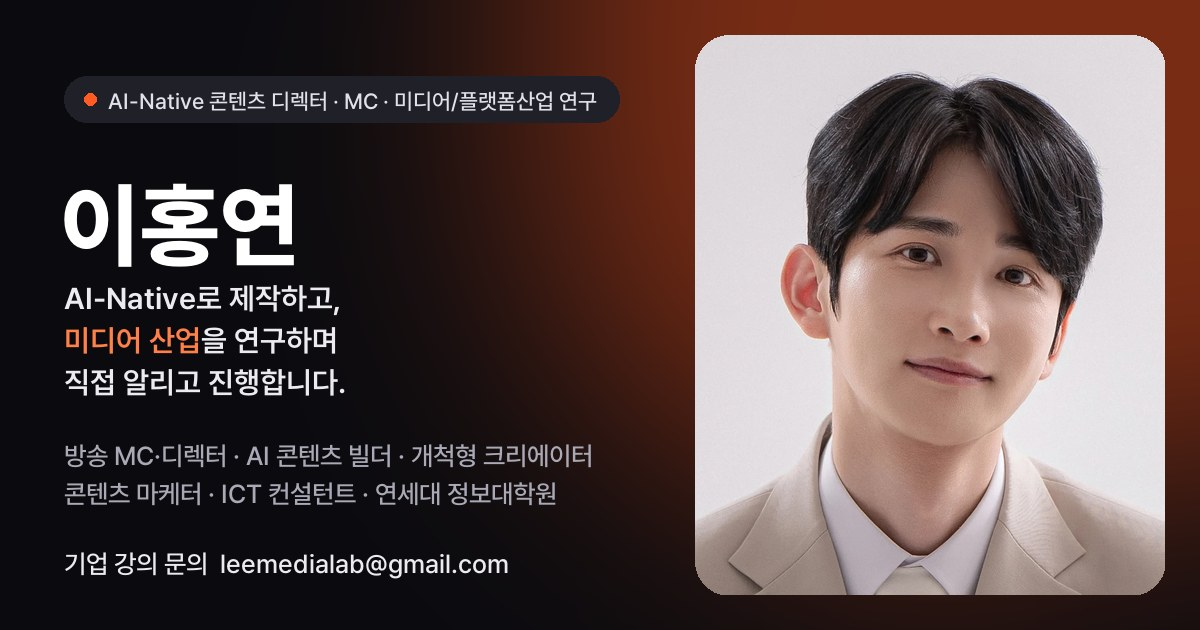
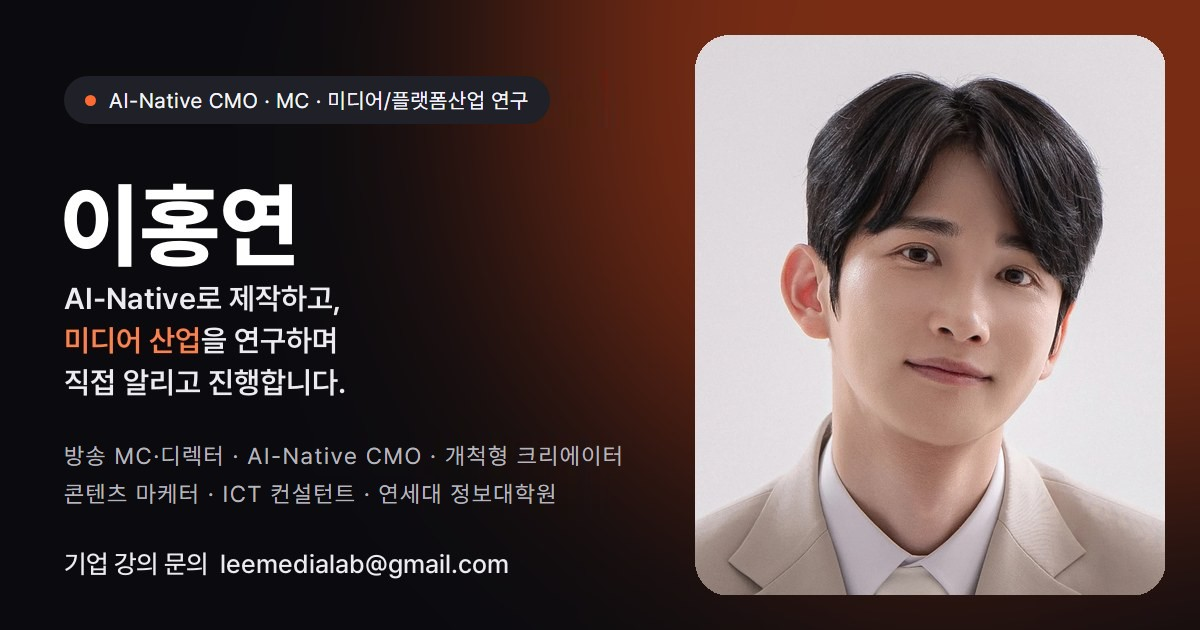
직함 'AI-Native 콘텐츠 디렉터' → 'AI-Native CMO'(첫 화면 배지·헤더), 탭 'AI 콘텐츠 빌더' → 'AI-Native CMO'(메뉴·푸터·화면 제목·CAREER 표시·홈 연혁), 공유 이미지 갱신

Changed region(s): [[0.0617, 0.6937, 0.5242, 0.8143], [0.0617, 0.1206, 0.5242, 0.2111]]

diff --git a/index.html b/index.html
@@ -14,7 +14,7 @@
 <meta property="og:url" content="https://leemedialab.github.io/">
 <meta property="og:title" content="이홍연 | AI-Native 콘텐츠 디렉터 · MC · 기업 강사">
 <meta property="og:description" content="AI-Native로 제작하고, 미디어 산업을 연구하며 직접 알리고 진행합니다. 미디어·플랫폼 산업, AI 콘텐츠 제작, 유튜브·SNS 전략, GEO·AI 검색 강의.">
-<meta property="og:image" content="https://leemedialab.github.io/assets/img/og.jpg?v=20261107">
+<meta property="og:image" content="https://leemedialab.github.io/assets/img/og.jpg?v=20261121">
 <meta property="og:image:width" content="1200">
 <meta property="og:image:height" content="630">
 <meta property="og:locale" content="ko_KR">
@@ -1258,10 +1258,10 @@ h1[tabindex="-1"]:focus{outline:none}
 
 <header class="bar" id="bar">
   <div class="wrap bar__in">
-    <a class="logo" href="#home" aria-label="이홍연, AI-Native 콘텐츠 디렉터·MC·미디어/플랫폼산업 연구 (홈)">
+    <a class="logo" href="#home" aria-label="이홍연, AI-Native CMO·MC·미디어/플랫폼산업 연구 (홈)">
       <img class="logo__mark" src="assets/img/avatar.webp" alt="" width="38" height="38">
       <span class="logo__name"><b>이홍연</b><small>HONGYEON LEE</small></span>
-      <span class="logo__role">AI-Native 콘텐츠 디렉터 · MC<i aria-hidden="true">·</i><br class="logo__br">미디어/플랫폼산업 연구</span>
+      <span class="logo__role">AI-Native CMO · MC<i aria-hidden="true">·</i><br class="logo__br">미디어/플랫폼산업 연구</span>
     </a>
     <nav class="menu" aria-label="메뉴">
       <div class="menu__scroll" id="menuScroll">
@@ -1269,7 +1269,7 @@ h1[tabindex="-1"]:focus{outline:none}
           <li><a href="#home">Home</a></li>
           <li class="menu__sep" aria-hidden="true"></li>
           <li><a href="#pd">방송 MC·디렉터</a></li>
-          <li><a href="#chainshift">AI 콘텐츠 빌더</a></li>
+          <li><a href="#chainshift">AI-Native CMO</a></li>
           <li><a href="#yodel">개척형 크리에이터</a></li>
           <li><a href="#marketing">콘텐츠 마케터</a></li>
           <li><a href="#ict">ICT 컨설턴트</a></li>
@@ -1298,7 +1298,7 @@ h1[tabindex="-1"]:focus{outline:none}
     <div class="hero__bg" aria-hidden="true"></div>
     <div class="wrap hero__grid">
       <div>
-        <span class="pill pill--live hero__role">AI-Native 콘텐츠 디렉터 · MC · 미디어/플랫폼산업 연구</span>
+        <span class="pill pill--live hero__role">AI-Native CMO · MC · 미디어/플랫폼산업 연구</span>
         <h1 class="h-display" id="hero-title">AI-Native로 제작하고,<br><span class="grad">미디어 산업</span>을 연구하며<br>직접 알리고 진행합니다.</h1>
         <p class="lead">통신 네트워크 컨설턴트부터 60만 구독자 규모의 유료방송·유튜브 오리지널 채널 기획과 <strong>메인 MC</strong>, AI 검색(GEO) 마케팅 총괄과 AI Native 콘텐츠 제작까지 미디어·ICT 생태계 전반을 아우르는 실무형 디렉터입니다.</p>
         <div class="sig"><b>이홍연</b><i></i><span>Hongyeon Lee</span><i></i><span>SK브로드밴드(8년) · Chainshift AI · 연세대 정보대학원(콘텐츠·플랫폼 비즈니스)</span></div>
@@ -1427,7 +1427,7 @@ h1[tabindex="-1"]:focus{outline:none}
         <a class="tl__row" href="#pd"><span class="tl__who"><i>03</i><b>방송 MC·디렉터<small>B tv 이동진의 파이아키아</small></b></span><span class="tl__lane"><span class="tl__bar" style="--s:41.667%;--e:78.030%">2020.08 – 2024.07</span><span class="tl__now" style="--n:98.485%"></span></span></a>
         <a class="tl__row" href="#marketing"><span class="tl__who"><i>04</i><b>콘텐츠 마케터<small>디지털Comm. · AX마케팅</small></b></span><span class="tl__lane"><span class="tl__bar" style="--s:45.455%;--e:83.333%">2021.01 – 2025.02</span><span class="tl__now" style="--n:98.485%"></span></span></a>
         <a class="tl__row" href="#yonsei"><span class="tl__who"><i>05</i><b>연세대 정보대학원<small>콘텐츠·플랫폼 비즈니스</small></b></span><span class="tl__lane"><span class="tl__bar tl__bar--now tl__bar--short" title="2025.09 –" style="--s:87.879%;--e:98.485%">2025.09 –</span><span class="tl__now" style="--n:98.485%"></span></span></a>
-        <a class="tl__row" href="#chainshift"><span class="tl__who"><i>06</i><b>AI 콘텐츠 빌더<small>체인시프트 CMO</small></b></span><span class="tl__lane"><span class="tl__bar tl__bar--now" data-t="2026 –" style="--s:96.5%;--e:98.485%"></span><span class="tl__now" style="--n:98.485%"></span></span></a>
+        <a class="tl__row" href="#chainshift"><span class="tl__who"><i>06</i><b>AI-Native CMO<small>체인시프트 · AI 검색(GEO) 마케팅 총괄</small></b></span><span class="tl__lane"><span class="tl__bar tl__bar--now" data-t="2026 –" style="--s:96.5%;--e:98.485%"></span><span class="tl__now" style="--n:98.485%"></span></span></a>
         <p class="tl__note">막대 길이는 실제 기간 비율입니다. 점선은 현재(2026년 10월).</p>
       </div>
     </div>
@@ -1558,9 +1558,9 @@ h1[tabindex="-1"]:focus{outline:none}
 </div>
 
 <!-- =================================================================== CH02 CHAINSHIFT -->
-<div class="view is-dark" id="chainshift" data-label="AI 콘텐츠 빌더">
+<div class="view is-dark" id="chainshift" data-label="AI-Native CMO">
   <section class="wrap phero" aria-labelledby="cs-title">
-    <div class="crumb"><b>CAREER 02</b><span>AI 콘텐츠 빌더 · 체인시프트 CMO</span></div>
+    <div class="crumb"><b>CAREER 02</b><span>AI-Native CMO · 체인시프트</span></div>
     <h1 class="h-1" id="cs-title">AI 검색 스타트업의 콘텐츠 제작을<br><span class="grad">AI-Native 워크플로우</span>로<br>설계했습니다</h1>
     <p class="lead">체인시프트는 ChatGPT·Gemini·네이버 AI 브리핑 같은 AI 검색에서 브랜드가 어떻게 언급되고 인용되는지 측정하는 GEO 스타트업입니다. 이곳에서 콘텐츠 제작을 소재 발굴부터 배포까지 9단계로 나누고, 초안과 반복 작업은 AI가, 판단과 승인은 사람이 맡는 워크플로우를 설계했습니다.</p>
     <div class="meta"><span class="chip">Chainshift · AI 검색(GEO) 스타트업</span><span class="chip">CMO</span><span class="chip num">2026 –</span></div>
@@ -2452,7 +2452,7 @@ h1[tabindex="-1"]:focus{outline:none}
       <p>AI-Native 콘텐츠 디렉터 · MC · 기업 강사</p>
     </div>
     <nav aria-label="하단 메뉴">
-      <a href="#pd">방송 MC·디렉터</a><a href="#chainshift">AI 콘텐츠 빌더</a><a href="#yodel">개척형 크리에이터</a>
+      <a href="#pd">방송 MC·디렉터</a><a href="#chainshift">AI-Native CMO</a><a href="#yodel">개척형 크리에이터</a>
       <a href="#marketing">콘텐츠 마케터</a><a href="#ict">ICT 컨설턴트</a><a href="#yonsei">연세대 정보대학원</a>
       <a href="#lectures">강의 콘텐츠</a><a href="#contact">강의 문의</a>
     </nav>
